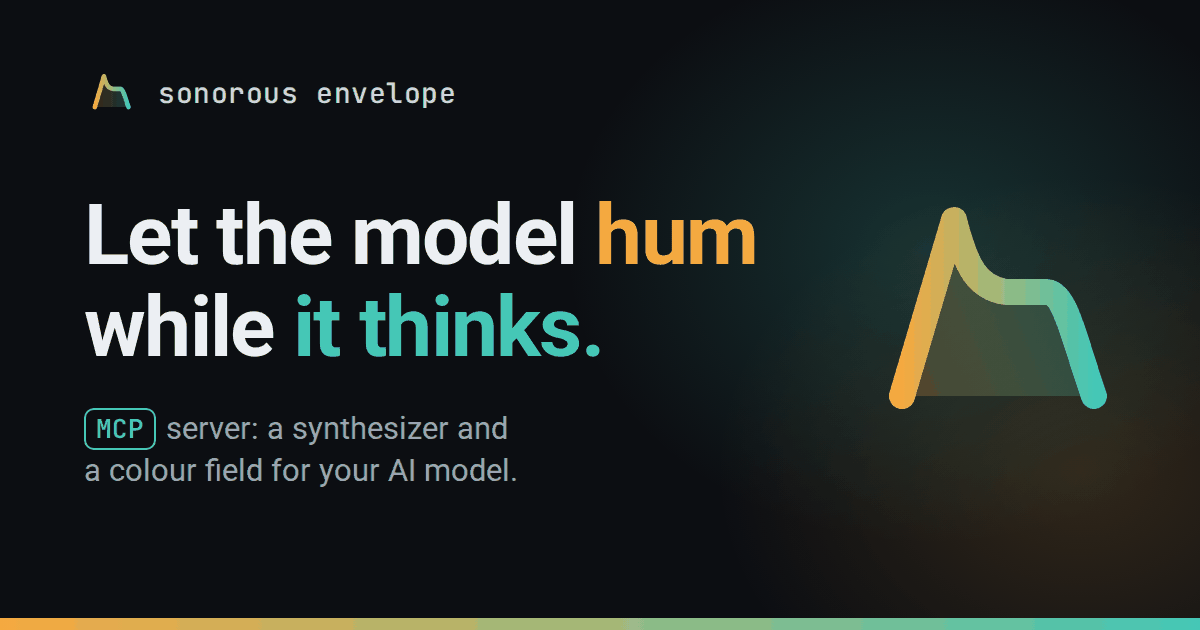
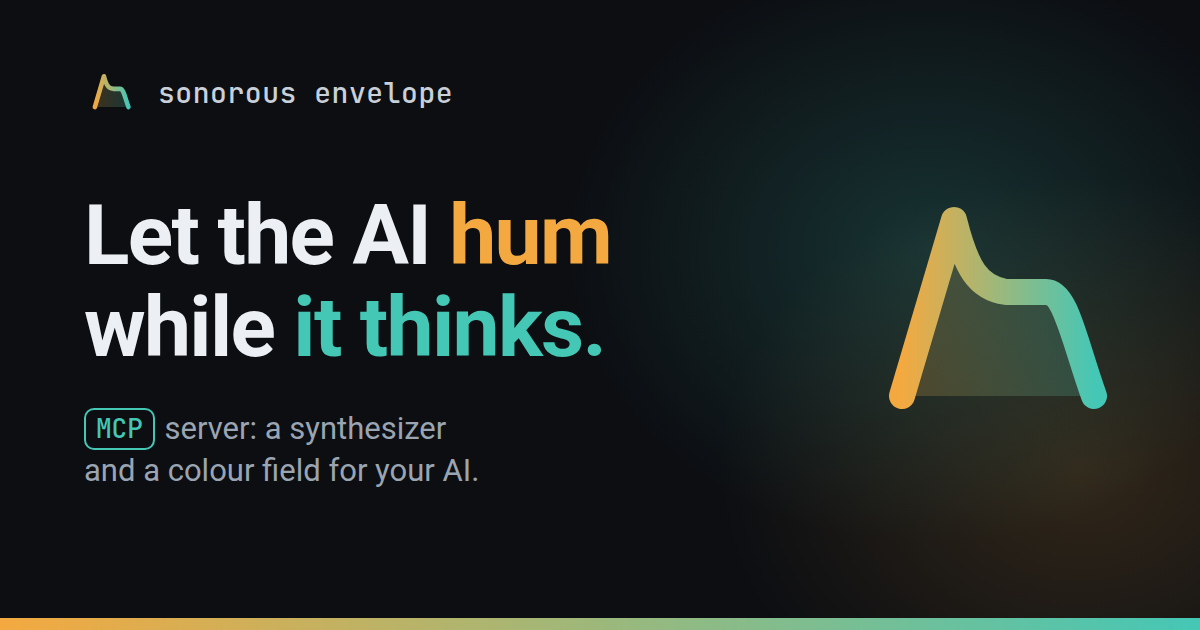
Say Let the AI hum while it thinks, and redraw the share image

diff --git a/apps/web/app/layout.tsx b/apps/web/app/layout.tsx
@@ -8,7 +8,7 @@ import "./globals.css";
 const roboto = Roboto({ subsets: ["latin"], weight: ["400", "500", "700"], variable: "--font-roboto" });
 const jetbrains = JetBrains_Mono({ subsets: ["latin"], weight: ["400", "500"], variable: "--font-jetbrains" });
 
-const TITLE = "Sonorous Envelope: let the model hum while it thinks";
+const TITLE = "Sonorous Envelope: let the AI hum while it thinks";
 const [SELF, ATTUNED, JUKEBOX] = FACES.map((f) => MODE_LABEL[f]);
 const DESCRIPTION = `A free MCP server that gives your AI a voice beyond text: a built-in synth or live Strudel music, with visuals. Three modes: ${SELF}, ${ATTUNED} and ${JUKEBOX}.`;
 
@@ -28,7 +28,7 @@ export const metadata: Metadata = {
   },
   openGraph: {
     type: "website", siteName: "Sonorous Envelope", title: TITLE, description: DESCRIPTION, url: "/",
-    images: [{ url: "/brand/og-image.png", width: 1200, height: 630, alt: "Sonorous Envelope: let the model hum while it thinks. An MCP server, a synthesizer and a colour field for your AI model." }],
+    images: [{ url: "/brand/og-image.png", width: 1200, height: 630, alt: "Sonorous Envelope: let the AI hum while it thinks. An MCP server, a synthesizer and a colour field for your AI model." }],
   },
   twitter: { card: "summary_large_image", title: TITLE, description: DESCRIPTION, images: ["/brand/og-image.png"] },
 };

diff --git a/docs/brand/og-card.html b/docs/brand/og-card.html
@@ -30,7 +30,7 @@ p{text-wrap:balance;font-size:31px;line-height:42px;color:#9ba5b2;margin-top:34p
     <svg width="56" height="56" viewBox="0 0 64 64"><defs><linearGradient id="b" x1="8" y1="0" x2="56" y2="0" gradientUnits="userSpaceOnUse"><stop offset="0" stop-color="#f4a940"/><stop offset="1" stop-color="#45c7b6"/></linearGradient></defs><g transform="translate(6 6) scale(.8)"><path d="M8 54 L21 10 C24 22 27 27 34 28 L44 28 C49 28 51 40 56 54 L8 54 Z" fill="url(#b)" fill-opacity=".22"/><path d="M8 54 L21 10 C24 22 27 27 34 28 L44 28 C49 28 51 40 56 54" fill="none" stroke="url(#b)" stroke-width="6.5" stroke-linecap="round" stroke-linejoin="round"/></g></svg>
     <span>sonorous envelope</span>
   </div>
-  <h1>Let the model <span class="hum">hum</span> while <span class="think">it thinks.</span></h1>
-  <p><span class="chip">MCP</span> server: a synthesizer and a colour field for your AI model.</p>
+  <h1>Let the AI <span class="hum">hum</span> while <span class="think">it thinks.</span></h1>
+  <p><span class="chip">MCP</span> server: a synthesizer and a colour field for your AI.</p>
 </div>
 <div class="bar"></div>

diff --git a/apps/web/app/page.tsx b/apps/web/app/page.tsx
@@ -59,9 +59,9 @@ export default async function Home() {
         <SiteHeader overlay />
         <div className="lp-hero-body">
           <div className="lp-hero-text">
-          <h1 className="lp-headline" aria-label="Let the model hum while it thinks.">
+          <h1 className="lp-headline" aria-label="Let the AI hum while it thinks.">
               <span aria-hidden="true">
-                Let the model <Letters text="hum" className="lp-hum" /> while{" "}
+                Let the AI <Letters text="hum" className="lp-hum" /> while{" "}
                 <Letters text="it thinks" className="lp-think" />.
               </span>
             </h1>

diff --git a/apps/web/app/globals.css b/apps/web/app/globals.css
@@ -720,7 +720,7 @@ html:has(.pl-field) .se-header {
 
 @media (min-width: 901px) {
   .lp-hero-body {
-    /* Just wide enough for "Let the model hum" (about 7.93em) on one line. */
+    /* Wide enough for "Let the model hum" (about 7.93em), the old headline; "Let the AI hum" is shorter and breaks the same way. */
     grid-template-columns: minmax(0, calc(var(--lp-h) * 8.1)) minmax(0, 1fr);
     column-gap: 56px;
     padding-top: 96px;

diff --git a/docs/implementation/player-ui.md b/docs/implementation/player-ui.md
@@ -23,7 +23,7 @@ The first page anyone sees, before signing in. It explains the idea, how it work
 
 ### 1. Hero
 - Logo lockup (mark + wordmark) top left; "Sign in" or "Your sessions" top right.
-- Headline in `display`: "Let the model hum while it thinks." One line under it in `body`: "Sonorous Envelope gives Claude a second voice: a small synthesizer and a colour field you hear and see while it works."
+- Headline in `display`: "Let the AI hum while it thinks." One line under it in `body`: "Sonorous Envelope gives Claude a second voice: a small synthesizer and a colour field you hear and see while it works."
 - Two actions: "Add to Claude" (primary, scrolls to the setup section) and "How it works" (secondary).
 - Behind the hero: a live, muted-by-default colour field drifting slowly (idle `field-a` → `field-b`, then a few preset moods gliding over ~8 s each). It respects `prefers-reduced-motion` and the old 3 Hz CSS rule (it does not use the canvas). An optional "Play a sample" button plays a short local demo state through the engine (tap required, volume capped low, stops on its own after 20 s).
 
@@ -142,7 +142,7 @@ Implementation notes (shipped): the player takes the clock offset from the `now`
 Every listener sees a small "Self", "Attuned" or "Jukebox" label in the status bar (with "· locked" when the owner locked it). The owner also sees a four-way control, titled "Mode", with Auto, Self, Attuned, Jukebox, which calls `set_mode_policy`: Auto lets the model switch (under the rules in `mcp-tools.md`), the others lock the mode. Auto keeps its filled highlight (the owner's choice); under Auto the button of the mode in effect gets a teal mark (a teal ring and teal text, the cool accent, so it is not read as the orange choice; `data-active`, with a visually hidden "(playing now)") that moves when the model switches; a locked mode is both the choice and the mode in effect, so it keeps the filled style only. A lock to Self stops a Strudel pattern; a lock to Attuned or Jukebox keeps it. The player reads the mode from `get_player_state` and refreshes on the session broadcast.
 
 ### Panel layout (v0.22.2)
-Gael (v0.22.1 test): too much at once for a new listener. Visible: the top bar, Mute, Volume, and **Mode** (owner; with "Fade to silence after" in Self). Then closed sections (`details.pl-group`, closed by default): **Visuals and Strudel** (Gradient, Scenes, Allow Strudel, Strudel visuals, Strudel code; a listener's section is **Visuals**, with Gradient, Scenes and, while a pattern plays, the two Strudel view toggles) and **Feedback to the AI** (Live tuning and its status line in Attuned and Jukebox, "Let the AI see the picture" with a one-line hint, then "Guide the sound" in the listener modes and "Tell the AI what you heard", each its own closed block inside). `ControlsPanel` hands the Gradient/Scenes toggles to its `middle` (a function of them) so they sit in the Visuals section. Then **What the AI is doing** (`pl-info`, in `controls-panel.tsx`): one quiet inset card (muted text, hairlines, no button look) holding "The code playing" (renamed from "Strudel code", which was also a toggle's name; for everyone, guests included), "What the AI set" and "What the AI can see" (signed in / owner); it hides itself when none of its blocks renders (`:has(details)`). The "Settings" block is gone. Listener-facing text says "the AI", never "the model" (tester report v0.22.1); the tagline "Let the model hum while it thinks" (title, hero, share image) is unchanged.
+Gael (v0.22.1 test): too much at once for a new listener. Visible: the top bar, Mute, Volume, and **Mode** (owner; with "Fade to silence after" in Self). Then closed sections (`details.pl-group`, closed by default): **Visuals and Strudel** (Gradient, Scenes, Allow Strudel, Strudel visuals, Strudel code; a listener's section is **Visuals**, with Gradient, Scenes and, while a pattern plays, the two Strudel view toggles) and **Feedback to the AI** (Live tuning and its status line in Attuned and Jukebox, "Let the AI see the picture" with a one-line hint, then "Guide the sound" in the listener modes and "Tell the AI what you heard", each its own closed block inside). `ControlsPanel` hands the Gradient/Scenes toggles to its `middle` (a function of them) so they sit in the Visuals section. Then **What the AI is doing** (`pl-info`, in `controls-panel.tsx`): one quiet inset card (muted text, hairlines, no button look) holding "The code playing" (renamed from "Strudel code", which was also a toggle's name; for everyone, guests included), "What the AI set" and "What the AI can see" (signed in / owner); it hides itself when none of its blocks renders (`:has(details)`). The "Settings" block is gone. Listener-facing text says "the AI", never "the model" (tester report v0.22.1); the tagline became "Let the AI hum while it thinks" too (title, hero, share image redrawn from `docs/brand/og-card.html`).
 
 Colour: a pressed toggle is a soft teal box (teal border at 60%, 10% fill) with an **orange** tick (`--glow`), less teal than before (Gael). The volume slider and the playing mode stay teal; the chosen policy stays orange.
 

diff --git a/docs/test-brief-v0.22.3.md b/docs/test-brief-v0.22.3.md
@@ -1,4 +1,4 @@
-# Test brief: Sonorous Envelope v0.22.2
+# Test brief: Sonorous Envelope v0.22.3 (covers v0.22.2 and v0.22.3)
 
 Read this whole file first. v0.22.2 reworks the player's control panel (Gael's feedback during the v0.22.1 test) and fixes what that test found (docs/archive/test-report-v0.22.1.md). Only what changed is tested.
 
@@ -14,7 +14,7 @@ Before you start: **reconnect the Sonorous Envelope connector** (the `listen` de
 
 - **The panel by sections.** Visible at first: Mute, Volume and Mode (with "Fade to silence after" in Self). Closed sections: **Visuals and Strudel** (Gradient, Scenes, the Strudel switches; a guest gets **Visuals**) and **Feedback to the AI** (Live tuning, "Let the AI see the picture", then "Guide the sound" and "Tell the AI what you heard"). Then a quiet card, **What the AI is doing**: "The code playing" (was "Strudel code"), "What the AI set" (was "What the model set") and "What the AI can see". The "Settings" block is gone. A pressed toggle has an orange tick on a soft teal box; the rows of toggles are evenly spaced.
 - **Live tuning lines**, one line each: "Off: your presses reach the AI with your next message." / "On: after each answer, the AI waits for your presses."
-- **"The AI", never "the model"**, in the player and on every page (the tagline "Let the model hum while it thinks" is unchanged for now).
+- **"The AI", never "the model"**, in the player and on every page (v0.22.3: the tagline too, "Let the AI hum while it thinks", with a redrawn share image).
 - **Before Start listening**, "You stay in control of the volume." is on its own line.
 - **The press line clears** as soon as the AI's answer arrives.
 - **Pictures:** the player takes one 6 s after it becomes visible again (it takes pictures only while visible), and `inspect` snapshot says so when the picture is old. The spectrogram covers the last 10 s.
@@ -39,4 +39,4 @@ Before you start: **reconnect the Sonorous Envelope connector** (the `listen` de
 
 ## Report
 
-Write the report as a Markdown file, `docs/test-report-v0.22.2.md`: a short header (date, session id, device and browser), one table (test, pass/fail/partial, what Gael saw or said), then any feedback for Claude Code, numbered. A press can appear twice (in `listen`, then in the next sound call, which marks it read): that is by design, not a failure.
+Write the report as a Markdown file, `docs/test-report-v0.22.3.md`: a short header (date, session id, device and browser), one table (test, pass/fail/partial, what Gael saw or said), then any feedback for Claude Code, numbered. A press can appear twice (in `listen`, then in the next sound call, which marks it read): that is by design, not a failure.
